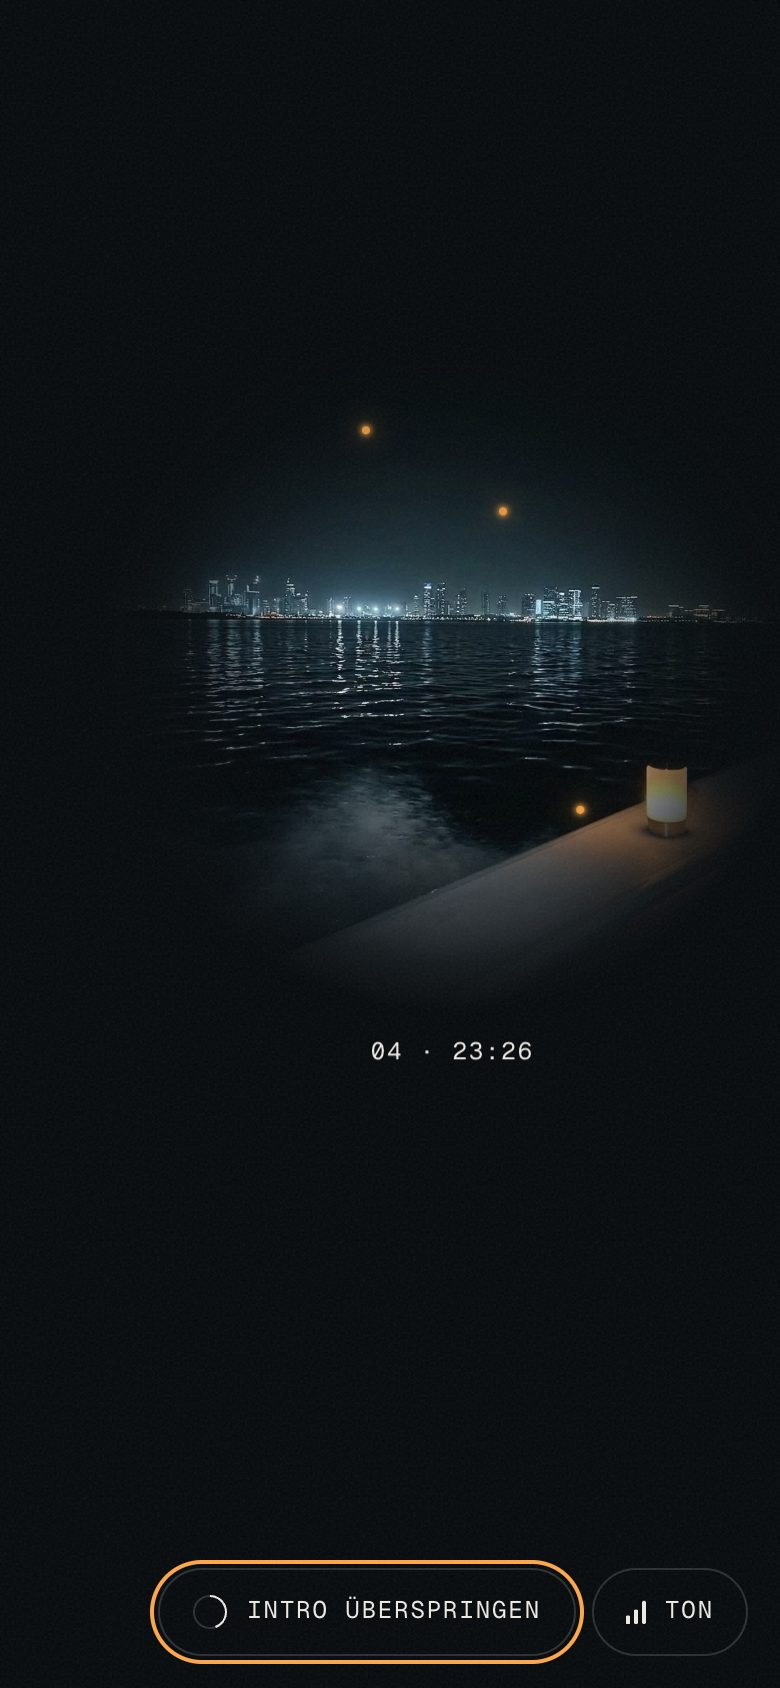
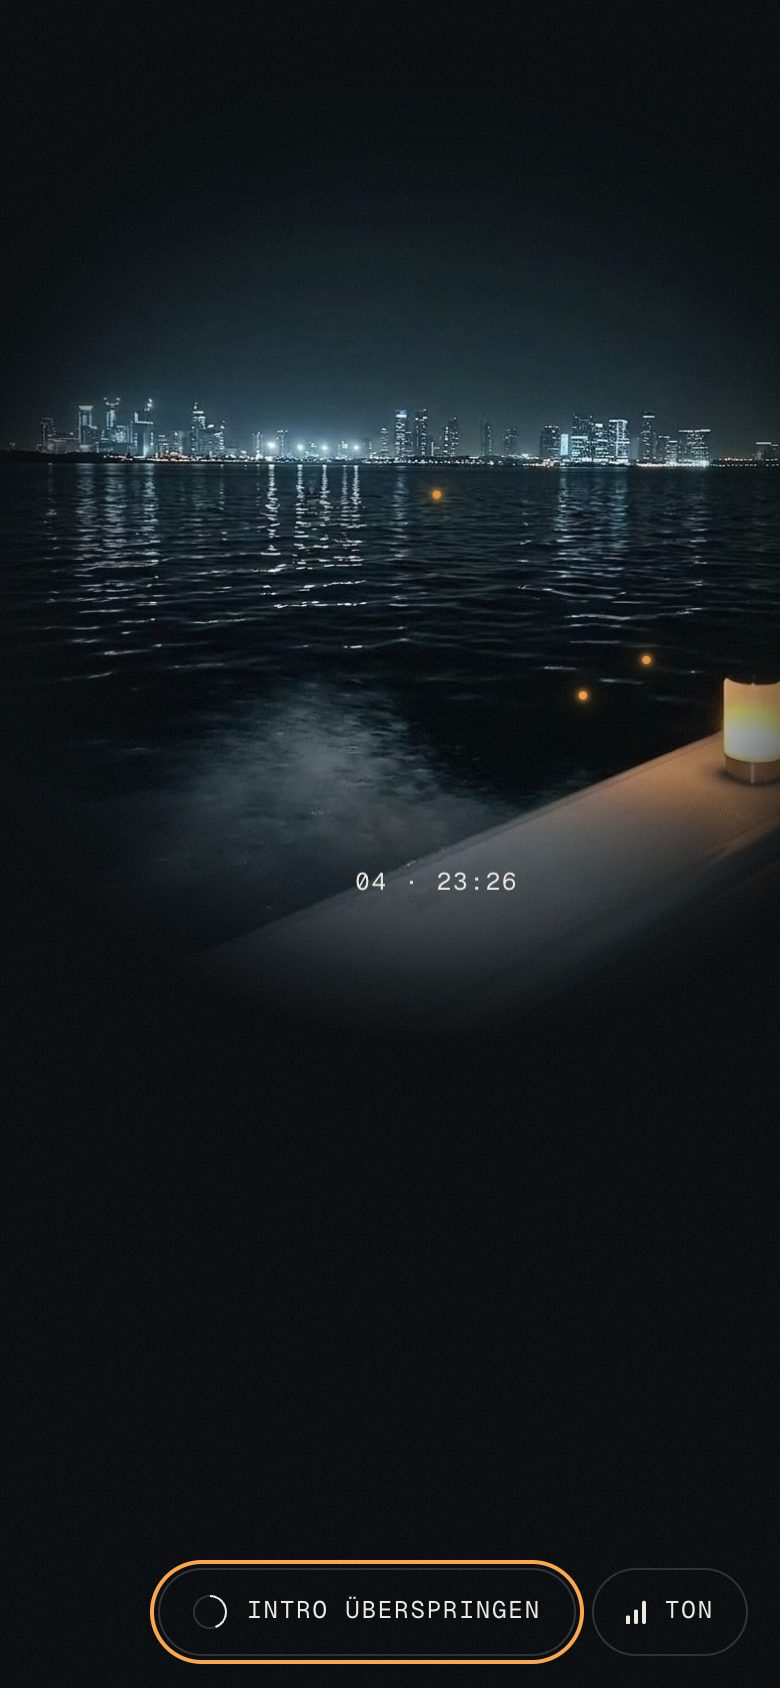
Double the memory photos, keep them recognizable
Feedback: photos twice as large, spread a little left and right, but
still recognizable.

- Size 84–110vmin (was 42–56), phones ×1.2 (≈ 100–130 % of the width);
  centers alternate a little left and right of the middle. fireworks is
  70vmin, the halo size, so it only drifts to the center.
- Recognizable: the inner half of the radius stays fully visible, only
  the outer half dissolves into the black; the photo's start zoom is
  1.08 instead of 1.15 (less upscaling of the 1024 px originals).
- Labels sit inside the lower part of the image instead of below it,
  which would now run off screen. Amber points stay on screen and, on
  phones, inside the 62svh canvas.
- Docs and screenshots updated.

Checks: typecheck, lint, build clean; CLS 0.

diff --git a/src/config/intro.ts b/src/config/intro.ts
@@ -87,30 +87,32 @@ export type BubbleSpec = {
   amber: [number, number];
 };
 
-export const MOBILE_BUBBLE_SCALE = 1.6;
+export const MOBILE_BUBBLE_SCALE = 1.2;
 
 /** Seconds between two bubble starts. */
 export const BUBBLE_STEP = 0.75;
 export const FIRST_BUBBLE = 0.8;
 
 /**
- * Layout per slug, in dramaturgy order. Memories are large (42–56vmin,
- * phones ×1.6 ≈ 67–90 % of the width) and dissolve into the black from the
- * middle outwards, so an image may run past the screen edge: only its label
- * and its amber point must stay visible. On desktop consecutive memories
- * switch the screen half (left/right); on portrait phones every amber point
+ * Layout per slug, in dramaturgy order. Memories are very large (84–110vmin,
+ * phones ×1.2 ≈ 100–130 % of the width) and dissolve into the black from the
+ * middle outwards, so an image runs past the screen edges; its recognizable
+ * core sits near the middle, alternately a little left and a little right.
+ * The label sits inside the lower part of the visible image (MemoryBubble),
+ * the amber point stays on screen, and on portrait phones every amber point
  * stays above 62svh, inside the canvas that takes the points over as party
- * lights. Checked at 1280×720, 1440×900, 1920×1080, 390×844 and 375×667.
+ * lights. fireworks is already the halo size (70vmin), so it only drifts to
+ * the center. Checked at 1280×720, 1440×900, 1920×1080, 390×844 and 375×667.
  */
 const layout: Record<OccasionSlug, Omit<BubbleSpec, "id" | "label" | "start">> = {
-  towers: { x: 27, y: 36, mx: 40, my: 27, size: 54, rise: 5, amber: [58, 52] },
-  yacht: { x: 70, y: 56, mx: 60, my: 44, size: 50, rise: 5, amber: [68, 67] },
-  storm: { x: 30, y: 62, mx: 38, my: 25, size: 46, rise: 4, amber: [86, 71] },
-  water: { x: 69, y: 38, mx: 58, my: 42, size: 56, rise: 6, amber: [80, 73] },
-  terrace: { x: 26, y: 48, mx: 38, my: 26, size: 42, rise: 4, amber: [52, 63] },
-  rooftop: { x: 73, y: 46, mx: 60, my: 44, size: 52, rise: 5, amber: [48, 48] },
+  towers: { x: 38, y: 46, mx: 46, my: 30, size: 104, rise: 4, amber: [58, 52] },
+  yacht: { x: 62, y: 50, mx: 54, my: 34, size: 96, rise: 4, amber: [68, 67] },
+  storm: { x: 37, y: 50, mx: 44, my: 30, size: 90, rise: 3, amber: [86, 71] },
+  water: { x: 63, y: 46, mx: 56, my: 33, size: 110, rise: 4, amber: [80, 73] },
+  terrace: { x: 36, y: 50, mx: 44, my: 32, size: 84, rise: 3, amber: [52, 63] },
+  rooftop: { x: 64, y: 48, mx: 56, my: 33, size: 100, rise: 4, amber: [48, 48] },
   // Cropped around the burst by scripts/optimize-intro.mjs: amber sits in the middle.
-  fireworks: { x: 44, y: 58, mx: 48, my: 32, size: 48, rise: 3, amber: [50, 50] },
+  fireworks: { x: 50, y: 52, mx: 50, my: 33, size: 70, rise: 2, amber: [50, 50] },
 };
 
 /** Seven memories; the last one (fireworks) becomes the light halo. */

diff --git a/src/components/hero/intro/MemoryBubble.tsx b/src/components/hero/intro/MemoryBubble.tsx
@@ -20,11 +20,12 @@ import { cancelAll, easing, track } from "./waapi";
 /** No photo: a faint graphite glow, no edge. */
 const GLASS_FILL = "color-mix(in oklab, var(--halo-deep) 70%, transparent)";
 /**
- * Flowing transition into the black: the photo is fully visible only in the
- * middle and fades out over the outer ≈ 60 % of the radius. There is no rim.
+ * Flowing transition into the black: the inner half of the radius stays
+ * fully visible so the photo is recognizable, the outer half fades out.
+ * There is no rim.
  */
 const DISSOLVE =
-  "radial-gradient(circle closest-side, #000 38%, rgb(0 0 0 / 0.82) 52%, rgb(0 0 0 / 0.45) 70%, rgb(0 0 0 / 0.14) 86%, transparent 100%)";
+  "radial-gradient(circle closest-side, #000 50%, rgb(0 0 0 / 0.85) 62%, rgb(0 0 0 / 0.5) 76%, rgb(0 0 0 / 0.15) 89%, transparent 100%)";
 
 
 /**
@@ -135,6 +136,8 @@ export const LABEL_CLASS =
   "whitespace-pre font-mono text-meta leading-4 uppercase tabular-nums text-paper";
 /** Gap between bubble and label (px). */
 export const LABEL_GAP = 12;
+/** Memory labels sit inside the lower visible part of the image (% of its box height). */
+const LABEL_TOP = "83%";
 
 
 /** The moment a memory starts to fade out: fully risen, photo at scale 1.0. */
@@ -144,7 +147,7 @@ export function memoryPopAt(spec: BubbleSpec): number {
 
 /**
  * Memories 1–6: fades in out of the black over T.bubbleIn (0.92 → 1.0), rises
- * by spec.rise while the photo settles from 1.15 to 1.0, and dissolves back
+ * by spec.rise while the photo settles from 1.08 to 1.0, and dissolves back
  * over T.bubbleOut (a touch larger, gone). Its amber light stays (AmberTrail).
  */
 export function MemoryBubble({
@@ -192,7 +195,7 @@ export function MemoryBubble({
         image.current,
         t0,
         [
-          { t: start, transform: "scale(1.15)", easing: easing.outQuart },
+          { t: start, transform: "scale(1.08)", easing: easing.outQuart },
           { t: popAt, transform: "scale(1)" },
         ],
         { fill: "both" },
@@ -214,8 +217,8 @@ export function MemoryBubble({
       </div>
       <span
         ref={label}
-        className={`absolute left-1/2 top-full opacity-0 ${LABEL_CLASS}`}
-        style={{ marginTop: LABEL_GAP }}
+        className={`absolute left-1/2 opacity-0 ${LABEL_CLASS}`}
+        style={{ top: LABEL_TOP }}
       >
         {spec.label}
       </span>

diff --git a/docs/design-direction.md b/docs/design-direction.md
@@ -88,7 +88,7 @@ Beide Lichthöfe bestehen dieselben Kontraste (Papier auf Kern 4,3 bzw. 4,2).
 | Gate | Die sieben AVIFs (zusammen 172 KB) laden schon jetzt, `img.decode()` vor dem Start. |
 | 0,0–0,4 | „Ja“ schaltet den Ton frei. Danach Schwärze in Tinte mit 7 % CSS-Korn über allem. |
 | 0,8–5,9 | Sieben Erinnerungsbilder, Start alle 0,75 s, je 1,0 s sichtbar: towers (links oben) → yacht (rechts unten) → storm (links unten) → water (rechts oben) → terrace (links Mitte) → rooftop (rechts Mitte) → fireworks (Mitte unten). Die Bilder wechseln immer die Bildhälfte. |
-| je Bild | Keine klare Blase: kein Rand, kein Glanz, kein Ring. Das Foto ist nur in der Mitte voll sichtbar und geht über die äußeren ≈ 60 % des Radius fließend ins Schwarz über. Es blendet in 0,3 s ein (Zoom 0,92 → 1,0), steigt 3–6vmin, das Foto zoomt von 1,15 auf 1,0, dann löst es sich in 0,3 s auf. Größe 42–56vmin, auf Mobil ×1,6. |
+| je Bild | Keine klare Blase: kein Rand, kein Glanz, kein Ring. Die innere Hälfte des Radius ist voll sichtbar, die äußere geht fließend ins Schwarz über. Es blendet in 0,3 s ein (Zoom 0,92 → 1,0), steigt 2–4vmin, das Foto zoomt von 1,08 auf 1,0, dann löst es sich in 0,3 s auf. Größe 84–110vmin, abwechselnd etwas links und rechts der Mitte, auf Mobil ×1,2; das Label steht im unteren Teil des Bildes. |
 | 5,9–6,25 | `fireworks` wandert in die Mitte und wächst auf 70vmin. Das Amber-Zentrum liegt exakt in der Mitte, weil das Bild beim Kodieren um das Feuerwerk beschnitten wird. Das Label rollt von „07 · 00:00“ auf „HEUTE NACHT“. |
 | 6,2–6,45 | Das Foto wird zur flachen Lichtscheibe. Sie platzt, und der Kreis bleibt als Lichthof (Shader mit Mitte und Radius der Lichtscheibe). |
 | 6,55 | Die Dose steigt aus dem Licht, Bloom auf der Oberkante, tiefer Bass-Schlag. |
@@ -130,7 +130,7 @@ Beide Lichthöfe bestehen dieselben Kontraste (Papier auf Kern 4,3 bzw. 4,2).
   - **Was zu sehen ist:** Im Hintergrund halten Gäste Weingläser, ein Glas steht auf dem Tisch.
   - **Fahrzeugbezug:** Am Steuer ist niemand zu sehen, und die Frau trinkt nicht. Trotzdem stehen Boot und Alkohol im selben Bild.
   - **Statusbezug:** Die Yacht ist das deutlichste Luxus-Signal der Serie.
-  - **Was tun:** vom Werberechtler prüfen lassen. Seit die Bilder deutlich größer sind (bis 56vmin) und 1,0 s stehen, sind die Gläser eher zu erkennen.
+  - **Was tun:** vom Werberechtler prüfen lassen. Seit die Bilder fast bildschirmfüllend sind (bis 110vmin) und 1,0 s stehen, sind die Gläser eher zu erkennen.
 - **rooftop:** Am linken Rand halten Gäste Flasche und Glas. Feiern mit Getränken ist zulässig, solange niemand betrunken wirkt, und das ist hier erfüllt. Die pinken und cyanfarbenen LED-Streifen sind beim Kodieren gedämpft.
 - **storm:** Am Fenster stehen Parfumflakons, eine Frau trägt Fußkettchen und Armband. Das ist Schmuck im Sinne eurer Ausschlussliste, in Blasengröße aber nicht erkennbar. Hinweis, kein Blocker.
 - **water:** Die Aufnahme entsteht vom Boot aus, ohne Getränk. Unkritisch.

diff --git a/docs/hero-brief.md b/docs/hero-brief.md
@@ -43,9 +43,9 @@ Originale liegen in `assets-src/intro/` (nicht ausgeliefert). `npm run assets:in
 
 **Blase**
 - **Form:** runde Maske (Inkreis). Das Foto skaliert darin von 1,15 auf 1,0.
-- **Keine Blase:** kein Rand, kein Glanz, kein Ring. Das Foto ist nur in der Mitte voll sichtbar und geht über die äußeren rund 60 % des Radius fließend ins Schwarz über.
-- **Bewegung:** blendet in 0,3 s weich ein (leichter Zoom 0,92 → 1,0), steigt ein Stück, das Foto zoomt von 1,15 auf 1,0, dann löst es sich in 0,3 s wieder auf.
-- **Größe:** 42–56vmin (bei 1440 × 900 rund 380–500 px), auf Mobil ×1,6 (67–90 % der Breite). Das Bild darf über den Bildschirmrand ragen, Label und Amber-Punkt bleiben sichtbar.
+- **Keine Blase:** kein Rand, kein Glanz, kein Ring. Die innere Hälfte des Radius ist voll sichtbar, damit das Foto erkennbar bleibt; die äußere Hälfte geht fließend ins Schwarz über.
+- **Bewegung:** blendet in 0,3 s weich ein (leichter Zoom 0,92 → 1,0), steigt ein Stück, das Foto zoomt von 1,08 auf 1,0, dann löst es sich in 0,3 s wieder auf. Das Label steht im unteren Teil des Bildes.
+- **Größe:** 84–110vmin (bei 1440 × 900 rund 760–990 px), auf Mobil ×1,2 (100–130 % der Breite). Die Bilder erscheinen abwechselnd etwas links und etwas rechts der Mitte und ragen über den Bildschirmrand; Label und Amber-Punkt bleiben sichtbar. Das Feuerwerk hat 70vmin, die Größe des Lichthofs.
 - **Verteilung:** über die ganze Fläche, nie zwei direkt hintereinander auf derselben Bildhälfte.
 - **Tempo:** ruhiger als der erste Stand (0,6 s Abstand, 120-ms-Schnitte): jetzt 0,75 s Abstand, 1,0 s Sichtdauer, 0,3 s Ein- und Ausblenden.
 
